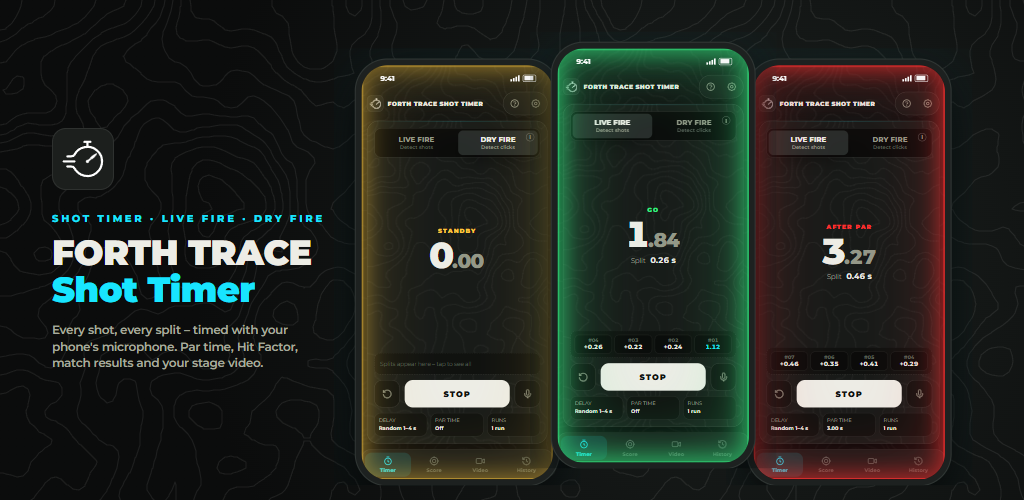
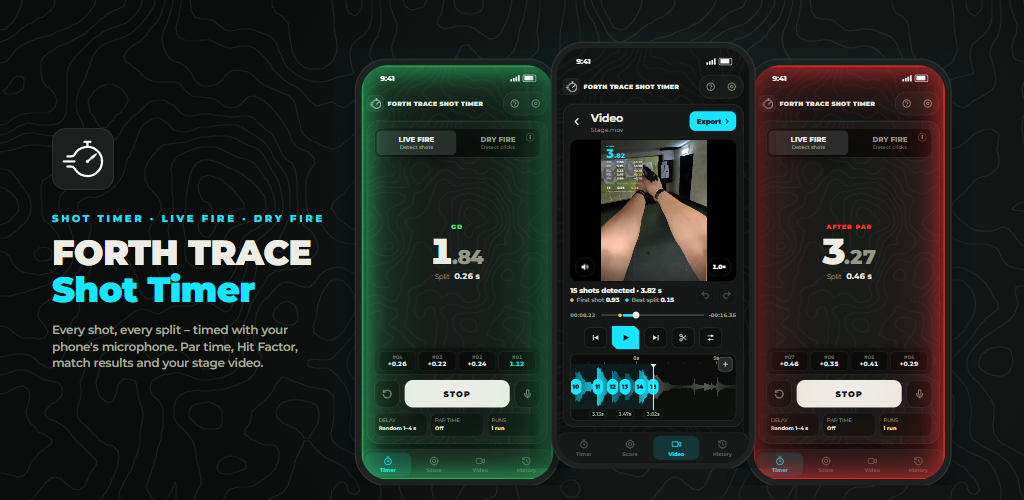
Google-Play-Vorstellungsgrafik: Video-Editor mit erkannten Schüssen in der Mitte
Vorlage drückt seit dem neuen Schneide-Schritt selbst auf „Schüsse erkennen“.

Changed region(s): [[0.3438, 0.09, 0.75, 0.96], [0.4062, 0.45, 0.4688, 0.57]]

diff --git a/store/header.html b/store/header.html
@@ -54,7 +54,10 @@
   // Video (?anim=1): alle drei laufen denselben Ablauf, zeitversetzt (off in Sekunden).
   const ANIM = new URLSearchParams(location.search).get('anim') === '1';
   // Reihenfolge links → rechts: Standby, läuft, Par. Die mittlere liegt vorn.
-  const SHOTS = [{ shot: 2, x: 0, z: 1, off: 0, extra: '&mode=dry' }, { shot: 1, x: 1, z: 3, off: 2.2 }, { shot: 3, x: 2, z: 2, off: 4.9 }];
+  const SHOTS = FORMAT === 'play'
+    // Google Play: in der Mitte der Video-Editor mit erkannten Schüssen, daneben Timer (läuft) und Par.
+    ? [{ shot: 1, x: 0, z: 1, off: 0 }, { shot: 7, x: 1, z: 3, off: 0 }, { shot: 3, x: 2, z: 2, off: 0 }]
+    : [{ shot: 2, x: 0, z: 1, off: 0, extra: '&mode=dry' }, { shot: 1, x: 1, z: 3, off: 2.2 }, { shot: 3, x: 2, z: 2, off: 4.9 }];
 
   /* Ablauf eines Durchgangs, Schleife von LOOP Sekunden:
      Standby (gelb) → Signal → Zeit läuft (grün) → Par 3,00 s (rot) → Ende. */

diff --git a/store/shots.html b/store/shots.html
@@ -181,7 +181,10 @@
         const inp = $('#vidFile');
         inp.files = dt.files;
         inp.dispatchEvent(new w.Event('change'));
-        for (let i = 0; i < 100 && !/\d/.test($('#vidCount').textContent); i++) await wait(100);
+        // Seit 1.0.1 kommt zuerst der Schneide-Schritt: ganzes Video übernehmen und erkennen lassen.
+        for (let i = 0; i < 100 && $('#vidCutDetect').hidden; i++) await wait(100);
+        if (!$('#vidCutDetect').hidden) $('#vidCutDetect').click();
+        for (let i = 0; i < 100 && !/\d+ \D+ · /.test($('#vidCount').textContent); i++) await wait(100);
         // Zum letzten Schuss springen: die Einblendung zeigt dann Zeit, Splits und Kennzahlen.
         for (let i = 0; i < 40; i++) { $('#vidNext').click(); await wait(20); }
         $('#vidPrev').click(); await wait(100);
